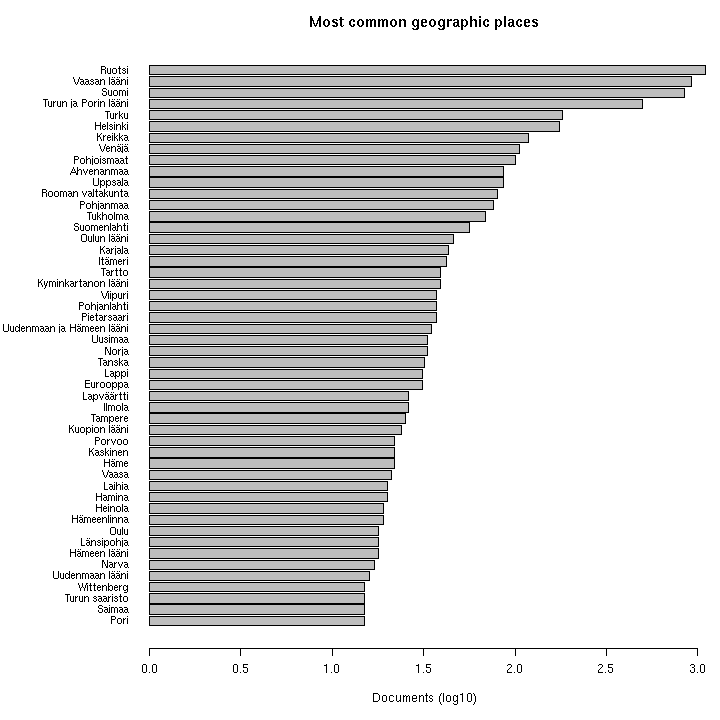
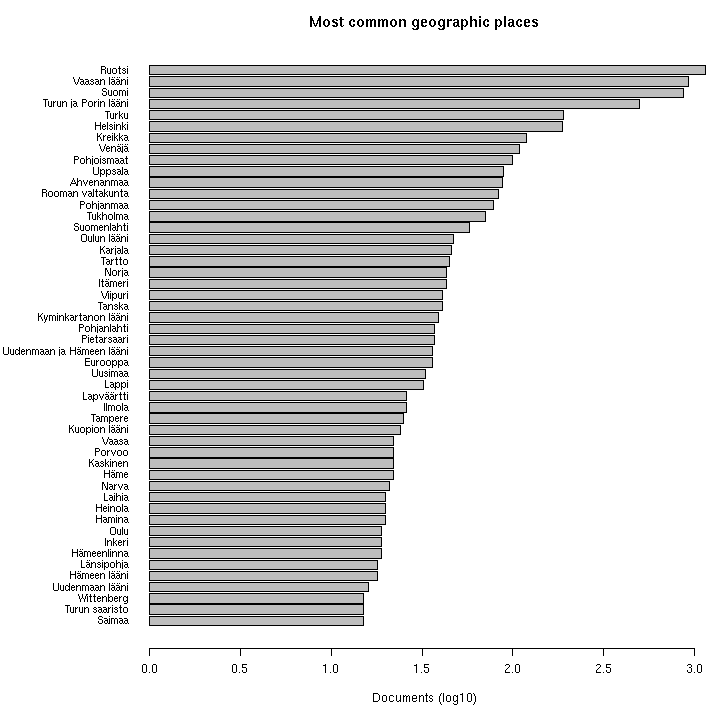
ok

diff --git a/inst/examples/summary.md b/inst/examples/summary.md
@@ -1,22 +1,20 @@
 ---
 title: "Preprocessing summary"
 author: "Leo Lahti"
-date: "Wed Oct 10 22:24:29 2018"
+date: "Wed Oct 10 22:27:53 2018"
 ---
 
 # Fennica summary
 
 
-```
-## Error in gzfile(file, "rb"): cannot open the connection
-```
-
-```
-## Error in gzfile(file, "rb"): cannot open the connection
-```
 
 
 Fields of special interest. Real success percentage (proportion of successful conversions compared to non-NA entries in the original data):
+
+
+```
+## Error in .f(.x[[i]], ...): object 'country' not found
+```
 
 ![plot of chunk missing2](figure/missing2-1.png)
 
@@ -38,7 +36,7 @@ We also have corporate info available ?
 
 
 
-Top-20 geographical places are shown together with the number of documents assigned to that region. Geography information is available for 5692 documents (8%). There are 634 unique geographical places.
+Top-20 geographical places are shown together with the number of documents assigned to that region. Geography information is available for 5838 documents (8%). There are 645 unique geographical places.
 
 ![plot of chunk geo2](figure/geo2-1.png)
 
